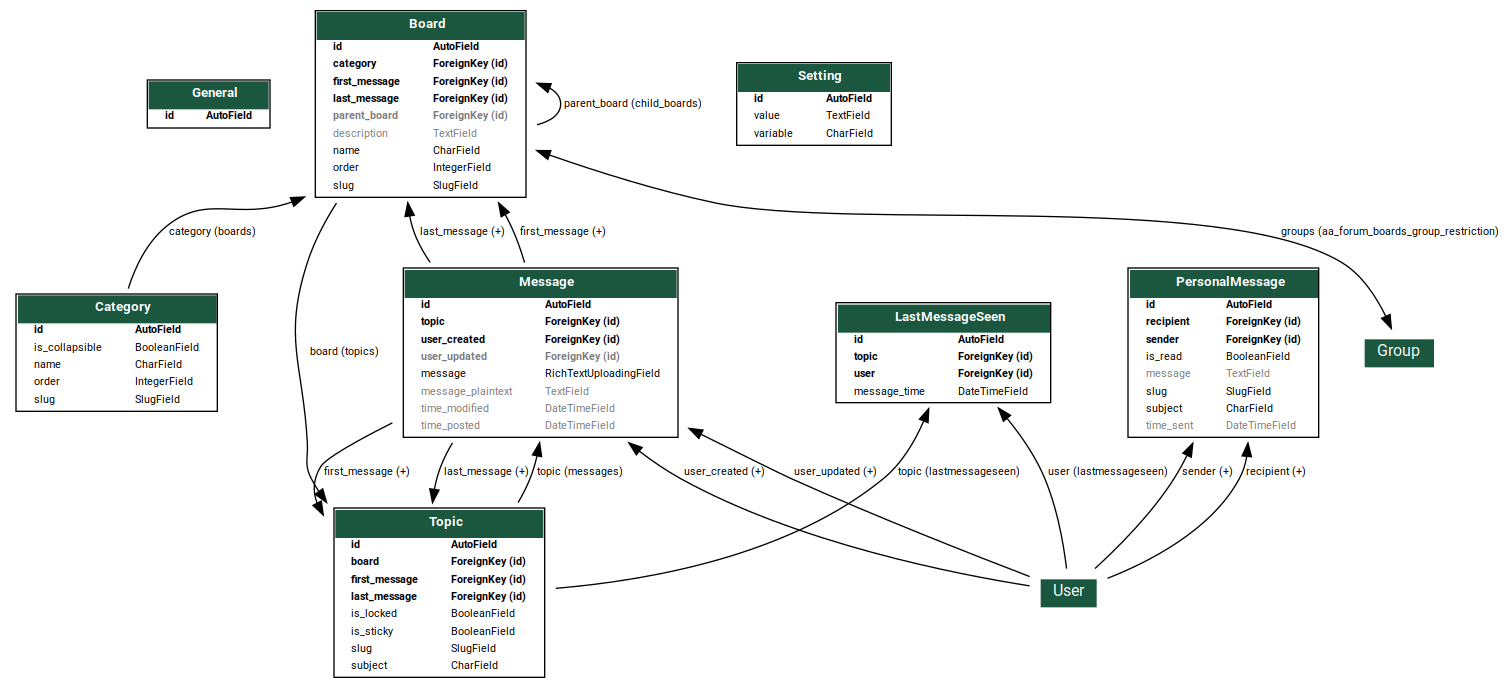
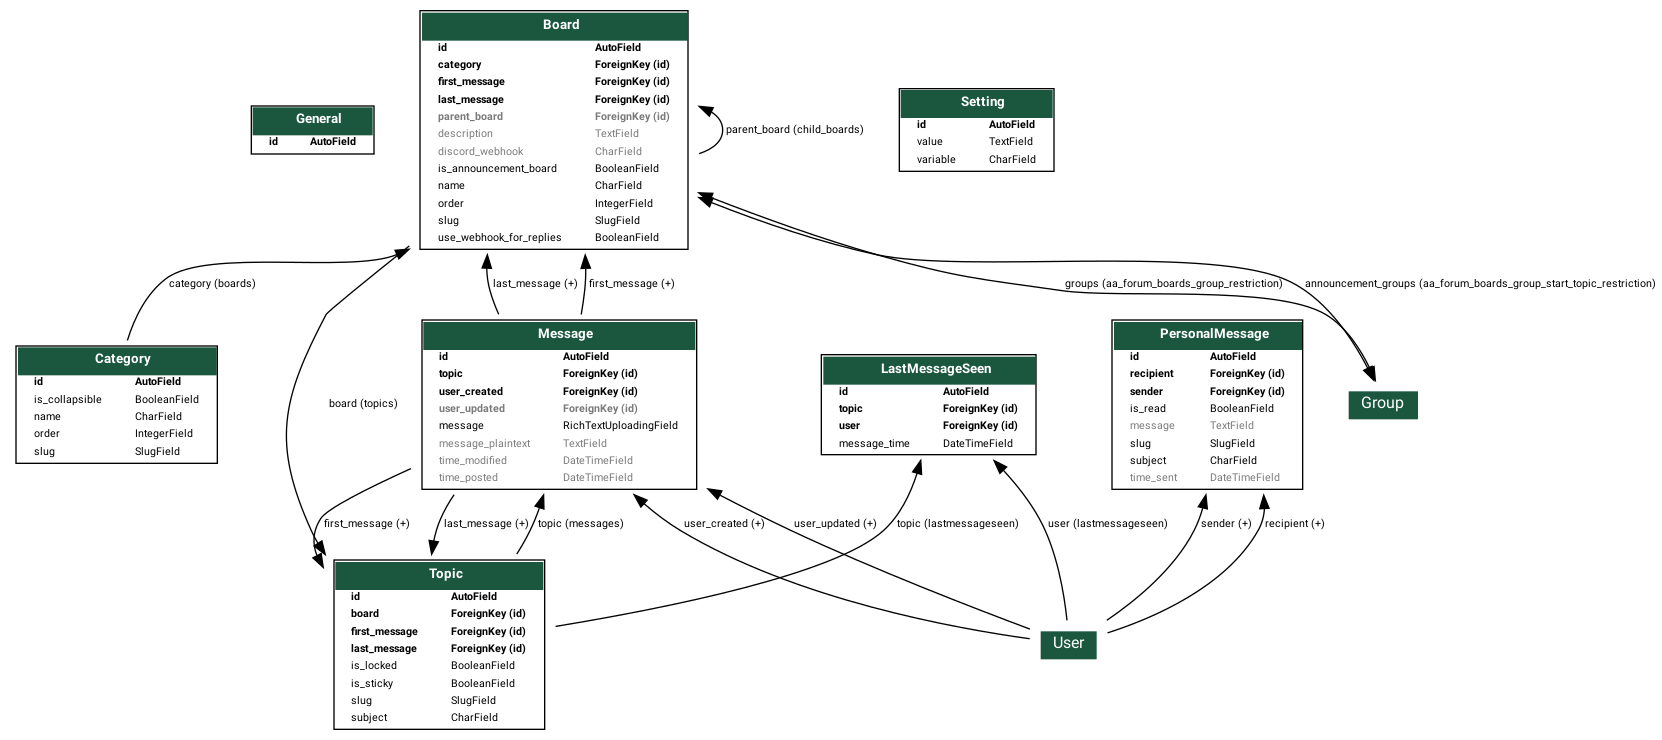
New Feature: Announcement Boards

diff --git a/aa_forum/templates/aa_forum/partials/forum/board/new-topic-button.html b/aa_forum/templates/aa_forum/partials/forum/board/new-topic-button.html
@@ -1,8 +1,10 @@
 {% load i18n %}
 
-<div class="text-right">
-    <a id="aa-forum-btn-new-topic-{{ suffix }}" class="btn btn-default btn-sm" href="{% url 'aa_forum:forum_board_new_topic' board.category.slug board.slug %}">
-        <i class="fas fa-pencil-alt"></i>
-        <span class="hidden-xs">{% translate "New Topic" %}</span>
-    </a>
-</div>
+{% if user_can_start_topic %}
+    <div class="text-right">
+        <a id="aa-forum-btn-new-topic-{{ suffix }}" class="btn btn-default btn-sm" href="{% url 'aa_forum:forum_board_new_topic' board.category.slug board.slug %}">
+            <i class="fas fa-pencil-alt"></i>
+            <span class="hidden-xs">{% translate "New Topic" %}</span>
+        </a>
+    </div>
+{% endif %}

diff --git a/aa_forum/templates/aa_forum/partials/administration/board-loop.html b/aa_forum/templates/aa_forum/partials/administration/board-loop.html
@@ -33,6 +33,8 @@
 
                     {% if not is_child_board %}
                         {{ board.board_forms.board_edit_form.groups|bootstrap }}
+                        {{ board.board_forms.board_edit_form.is_announcement_board|bootstrap }}
+                        {{ board.board_forms.board_edit_form.announcement_groups|bootstrap }}
                     {% endif %}
 
                     <div class="form-group aa-forum-form-new-category text-right clearfix">

diff --git a/aa_forum/views/forum.py b/aa_forum/views/forum.py
@@ -124,6 +124,30 @@ def index(request: WSGIRequest) -> HttpResponse:
     return render(request, "aa_forum/view/forum/index.html", context)
 
 
+def _user_can_start_topic(request: WSGIRequest, current_board: Board) -> bool:
+    """
+    Determine if we have an Announcement Board and the current user can start a topic
+    :param request:
+    :param current_board:
+    :return:
+    """
+
+    user_can_start_topic = True
+
+    if current_board.is_announcement_board:
+        if (
+            request.user.has_perm("aa_forum.manage_forum")
+            or request.user.groups.filter(
+                pk__in=current_board.announcement_groups.all()
+            ).exists()
+        ):
+            user_can_start_topic = True
+        else:
+            user_can_start_topic = False
+
+    return user_can_start_topic
+
+
 @login_required
 @permission_required("aa_forum.basic_access")
 def board(
@@ -203,6 +227,9 @@ def board(
                     to_attr="topics_sorted",
                 )
             )
+            .prefetch_related(
+                Prefetch("announcement_groups", queryset=Group.objects.order_by("name"))
+            )
             .filter(category__slug=category_slug, slug=board_slug)
             .user_has_access(request.user)
             .get()
@@ -230,7 +257,14 @@ def board(
         int(Setting.objects.get_setting(setting_key=SETTING_TOPICSPERPAGE)),
     )
     page_obj = paginator.get_page(page_number)
-    context = {"board": board, "page_obj": page_obj}
+
+    context = {
+        "board": board,
+        "user_can_start_topic": _user_can_start_topic(
+            request=request, current_board=board
+        ),
+        "page_obj": page_obj,
+    }
 
     logger.info(f'{request.user} called board "{board.name}"')
 
@@ -292,6 +326,25 @@ def board_new_topic(
         logger.info(
             f"{request.user} tried to create a topic in a board they have no access "
             f"to. Redirecting to forum index"
+        )
+
+        return redirect("aa_forum:forum_index")
+
+    if not _user_can_start_topic(request=request, current_board=board):
+        messages.error(
+            request,
+            mark_safe(
+                _(
+                    "<h4>Error!</h4><p>The board you were trying to post in is an "
+                    "Announcement Board and you don't have the permissions to start a "
+                    "topic there ...</p>"
+                )
+            ),
+        )
+
+        logger.info(
+            f"{request.user} tried to create a topic in an announcement board without "
+            f"the permissin to do so. Redirecting to forum index"
         )
 
         return redirect("aa_forum:forum_index")

diff --git a/aa_forum/migrations/0005_announcement_boards.py b/aa_forum/migrations/0005_announcement_boards.py
@@ -1,0 +1,43 @@
+# Generated by Django 4.0.3 on 2022-04-08 18:44
+
+# Django
+from django.db import migrations, models
+
+
+class Migration(migrations.Migration):
+
+    dependencies = [
+        ("auth", "0012_alter_user_first_name_max_length"),
+        ("aa_forum", "0004_board_use_webhook_for_replies"),
+    ]
+
+    operations = [
+        migrations.AddField(
+            model_name="board",
+            name="announcement_groups",
+            field=models.ManyToManyField(
+                blank=True,
+                help_text="User in at least one of the selected groups will be able to start topics in 'Announcement Boards'. If no group is selected, only forum admins can do so.",
+                related_name="aa_forum_boards_group_start_topic_restriction",
+                to="auth.group",
+            ),
+        ),
+        migrations.AddField(
+            model_name="board",
+            name="is_announcement_board",
+            field=models.BooleanField(
+                default=False,
+                help_text="Mark this board as an 'Announcement Board', meaning that only certain selected groups can start new topics. All others who have access to this board will still be able to discuss in the topics though. (Default: NO)",
+            ),
+        ),
+        migrations.AlterField(
+            model_name="board",
+            name="groups",
+            field=models.ManyToManyField(
+                blank=True,
+                help_text="User in at least one of these groups have access to this board. If no groups are selected, everyone with access to the forum has also access to this board.",
+                related_name="aa_forum_boards_group_restriction",
+                to="auth.group",
+            ),
+        ),
+    ]

diff --git a/aa_forum/forms.py b/aa_forum/forms.py
@@ -228,6 +228,27 @@ class EditBoardForm(ModelForm):
             "Chose wisely! (Default: NO)"
         ),
     )
+    is_announcement_board = forms.BooleanField(
+        initial=False,
+        required=False,
+        label=_("Mark Board as 'Announcement Board'"),
+        help_text=_(
+            "Mark this board as an 'Announcement Board', meaning that only certain "
+            "selected groups can start new topics. All others who have access to this "
+            "board will still be able to discuss in the topics though. This setting "
+            "will not be inherited to child boards. (Default: NO)"
+        ),
+    )
+    announcement_groups = SpecialModelMultipleChoiceField(
+        required=False,
+        label=_("Start Topic Restrictions for 'Announcement Boards'"),
+        help_text=_(
+            "User in at least one of the selected groups will be able to start topics "
+            "in 'Announcement Boards'. If no group is selected, only forum admins can "
+            "do so. This setting will not be inherited to child boards."
+        ),
+        queryset=Group.objects.all(),
+    )
 
     def __init__(self, *args, **kwargs):
         groups_queryset = kwargs.pop("groups_queryset", None)
@@ -249,6 +270,8 @@ class EditBoardForm(ModelForm):
             "groups",
             "discord_webhook",
             "use_webhook_for_replies",
+            "is_announcement_board",
+            "announcement_groups",
         ]
 
 

diff --git a/aa_forum/models.py b/aa_forum/models.py
@@ -168,6 +168,29 @@ class Board(models.Model):
         Group,
         blank=True,
         related_name="aa_forum_boards_group_restriction",
+        help_text=(
+            "User in at least one of these groups have access to this board. If "
+            "no groups are selected, everyone with access to the forum has also "
+            "access to this board."
+        ),
+    )
+    is_announcement_board = models.BooleanField(
+        default=False,
+        help_text=(
+            "Mark this board as an 'Announcement Board', meaning that only certain "
+            "selected groups can start new topics. All others who have access to this "
+            "board will still be able to discuss in the topics though. (Default: NO)"
+        ),
+    )
+    announcement_groups = models.ManyToManyField(
+        Group,
+        blank=True,
+        related_name="aa_forum_boards_group_start_topic_restriction",
+        help_text=(
+            "User in at least one of the selected groups will be able to start topics "
+            "in 'Announcement Boards'. If no group is selected, only forum admins can "
+            "do so."
+        ),
     )
     order = models.IntegerField(
         default=DEFAULT_CATEGORY_AND_BOARD_SORT_ORDER, db_index=True

diff --git a/aa_forum/views/admin.py b/aa_forum/views/admin.py
@@ -260,11 +260,13 @@ def board_create(request: WSGIRequest, category_id: int) -> HttpResponseRedirect
                 category=board_category,
                 discord_webhook=discord_webhook,
                 use_webhook_for_replies=form.cleaned_data["use_webhook_for_replies"],
+                is_announcement_board=form.cleaned_data["is_announcement_board"],
                 order=DEFAULT_CATEGORY_AND_BOARD_SORT_ORDER,
             )
             new_board.save()
 
             new_board.groups.set(form.cleaned_data["groups"])
+            new_board.announcement_groups.set(form.cleaned_data["announcement_groups"])
 
             messages.success(
                 request, mark_safe(_("<h4>Success!</h4><p>Board created.</p>"))
@@ -363,6 +365,8 @@ def board_edit(
             board.discord_webhook = discord_webhook
             board.use_webhook_for_replies = form.cleaned_data["use_webhook_for_replies"]
             board.groups.set(form.cleaned_data["groups"])
+            board.is_announcement_board = form.cleaned_data["is_announcement_board"]
+            board.announcement_groups.set(form.cleaned_data["announcement_groups"])
             board.save()
 
             messages.success(

diff --git a/CHANGELOG.md b/CHANGELOG.md
@@ -6,7 +6,21 @@ The format is based on [Keep a Changelog](http://keepachangelog.com/)
 and this project adheres to [Semantic Versioning](http://semver.org/).
 
 
-## [In development] - Unreleased
+## [In Development] - Unreleased
+
+### Added
+
+- New Feature: Announcement Boards
+  ![New Feature: Announcement Boards](aa_forum/docs/images/feature-announcement-board.jpg "New Feature: Announcement Boards")
+  - Boards marked as "Announcement Boards" has restrictions on who can start a topic
+    in them. This is the already known group restriction function that is already
+    used to restrict access to boards in general
+  - Users with access to an announcement board still can discuss in the topic itself
+  - To start a topic, a user needs to be in (at least) on of the defined groups that
+    are allowed to start topics
+  - If no groups are defined that are allowed to start topics in the announcement
+    board, only users with the `manage_forum` permission (Forum Admins) can start topics
+  - These settings will not be inherited to child boards
 
 
 ## [1.7.0] - 2022-03-02
